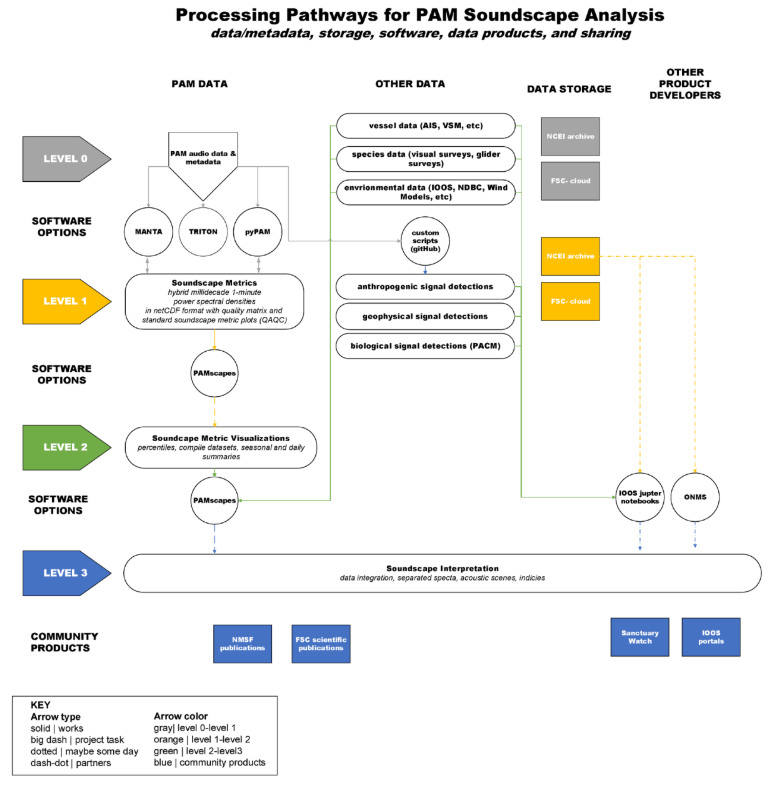
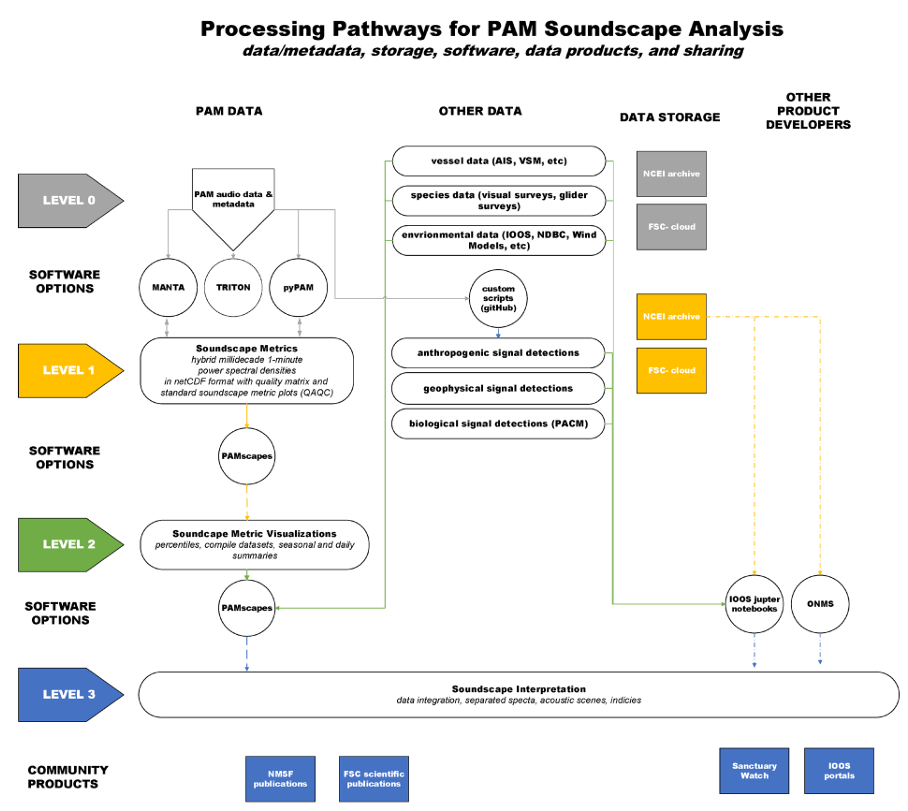
Built site for gh-pages

diff --git a/content/SI coord/PAM_priority_projects/Soundscapes.html b/content/SI coord/PAM_priority_projects/Soundscapes.html
@@ -326,7 +326,6 @@ ul.task-list li input[type="checkbox"] {
 <section id="goal" class="level3">
 <h3 class="anchored" data-anchor-id="goal">Goal</h3>
 <p>Facilitate cross-agency, region, and platform soundscape comparisons by quantifying soundscape metrics for priority datasets and generate decision support tools that integrate soundscape visualizations with multiple data types.</p>
-<p><img src="../../../content/images/Priority_project_graphics/Soundscapes/Processing_pathways.PNG" class="img-fluid"></p>
 </section>
 <section id="target-outcome" class="level3">
 <h3 class="anchored" data-anchor-id="target-outcome">Target outcome</h3>
@@ -335,6 +334,7 @@ ul.task-list li input[type="checkbox"] {
 <section id="summary" class="level3">
 <h3 class="anchored" data-anchor-id="summary">Summary</h3>
 <p>This project will add soundscape metrics for priority PAM SI datasets alongside audio files and other metrics to the NCEI Passive Acoustics archive. The soundscape metrics will be used to develop and demonstrate soundscape interpretation and visualization tools being developed as part of the SI. The datasets will also facilitate comparison of data sampled by multiple recording technologies and projects that are unique to select FMCs. A technical guide for processing and archiving PAM data will also be prepared as part of this project. This project will work with PAM SI cloud computing projects to operationalize soundscape metric processing software in the cloud environment. Streamlining and documenting methods to process and archive soundscape metrics supports PAM SI objectives to advance PAM data analysis and integration approaches, and advance archival cloud capabilities.</p>
+<p><img src="../../../content/images/Priority_project_graphics/Soundscapes/Processing_pathways.PNG" class="img-fluid" style="width:95.0%"></p>
 </section>
 <section id="action-items" class="level3">
 <h3 class="anchored" data-anchor-id="action-items">Action items</h3>
